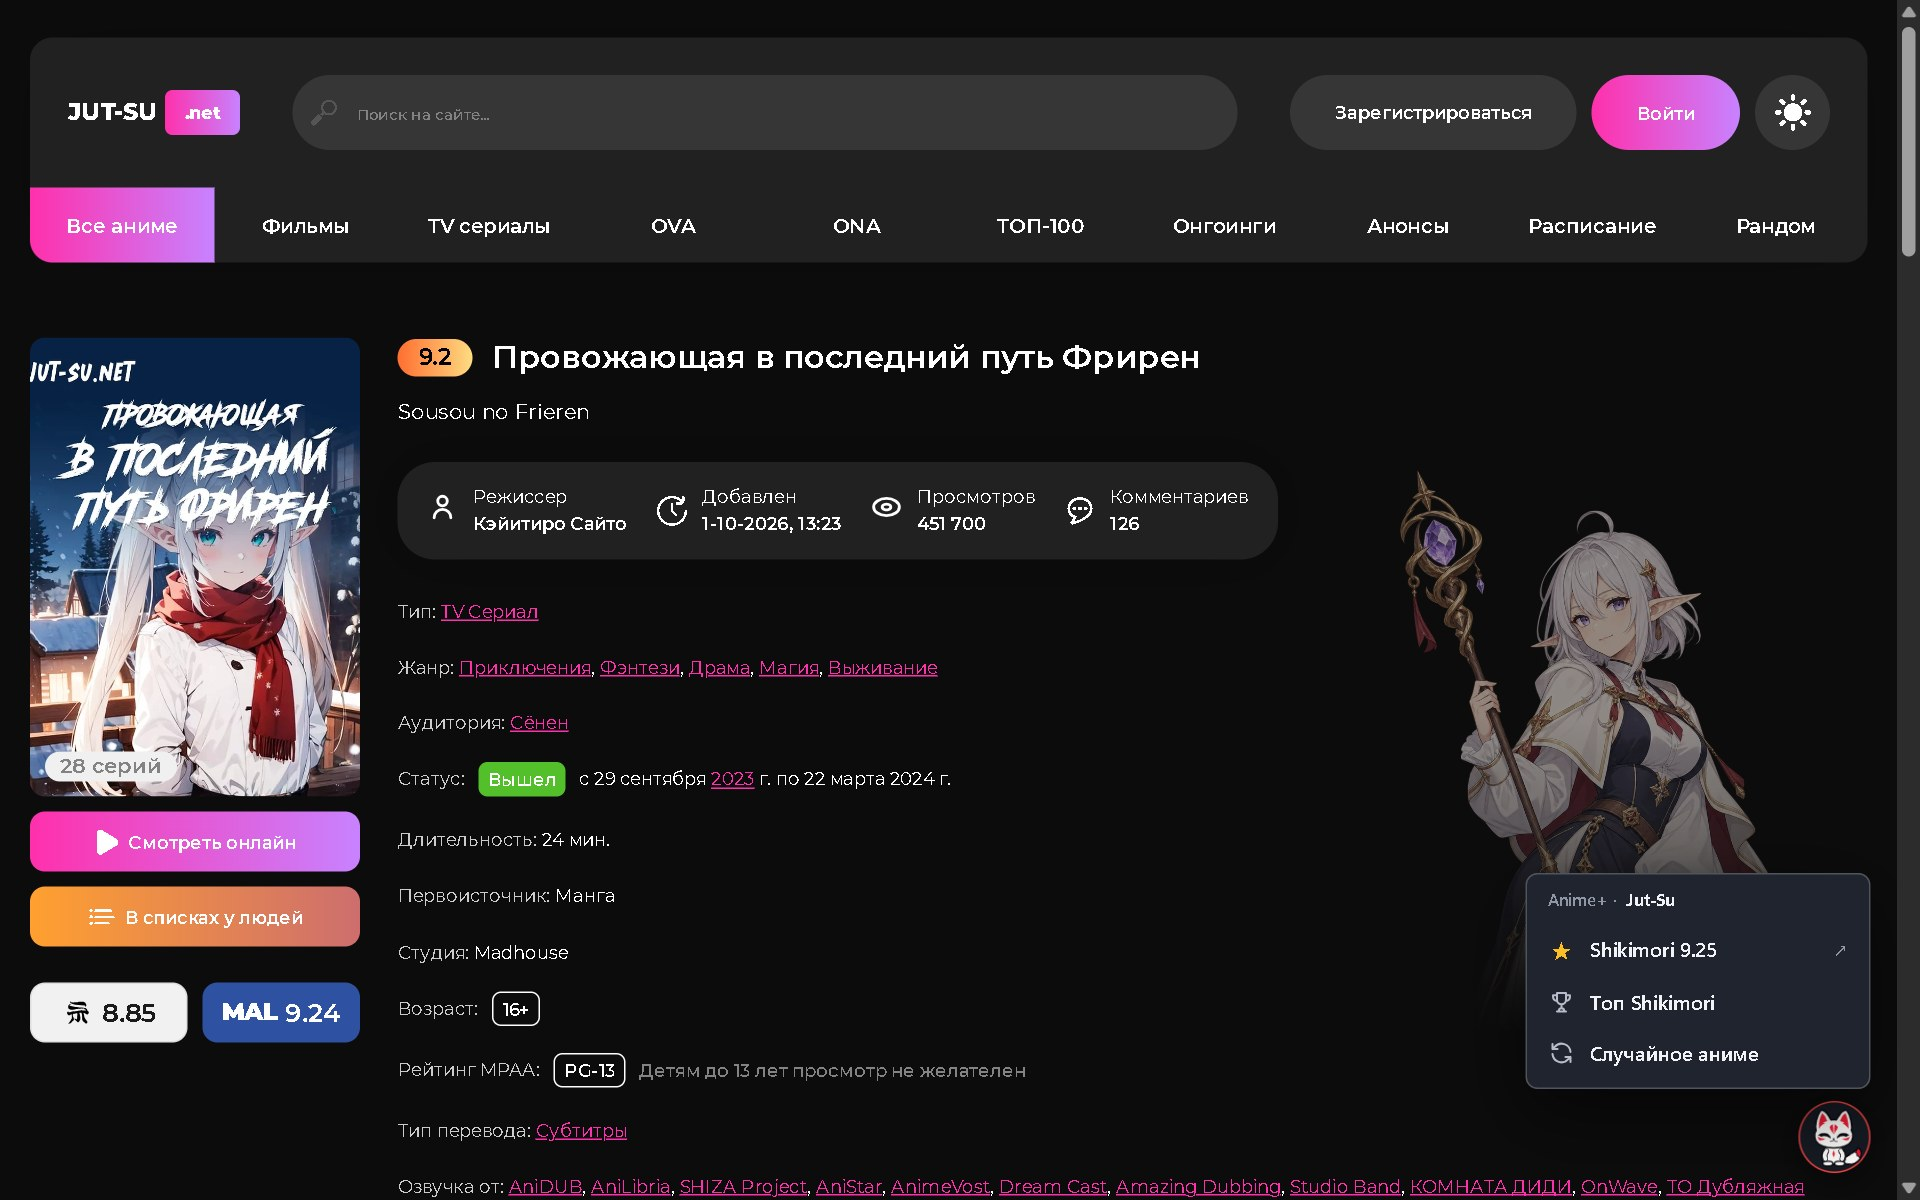
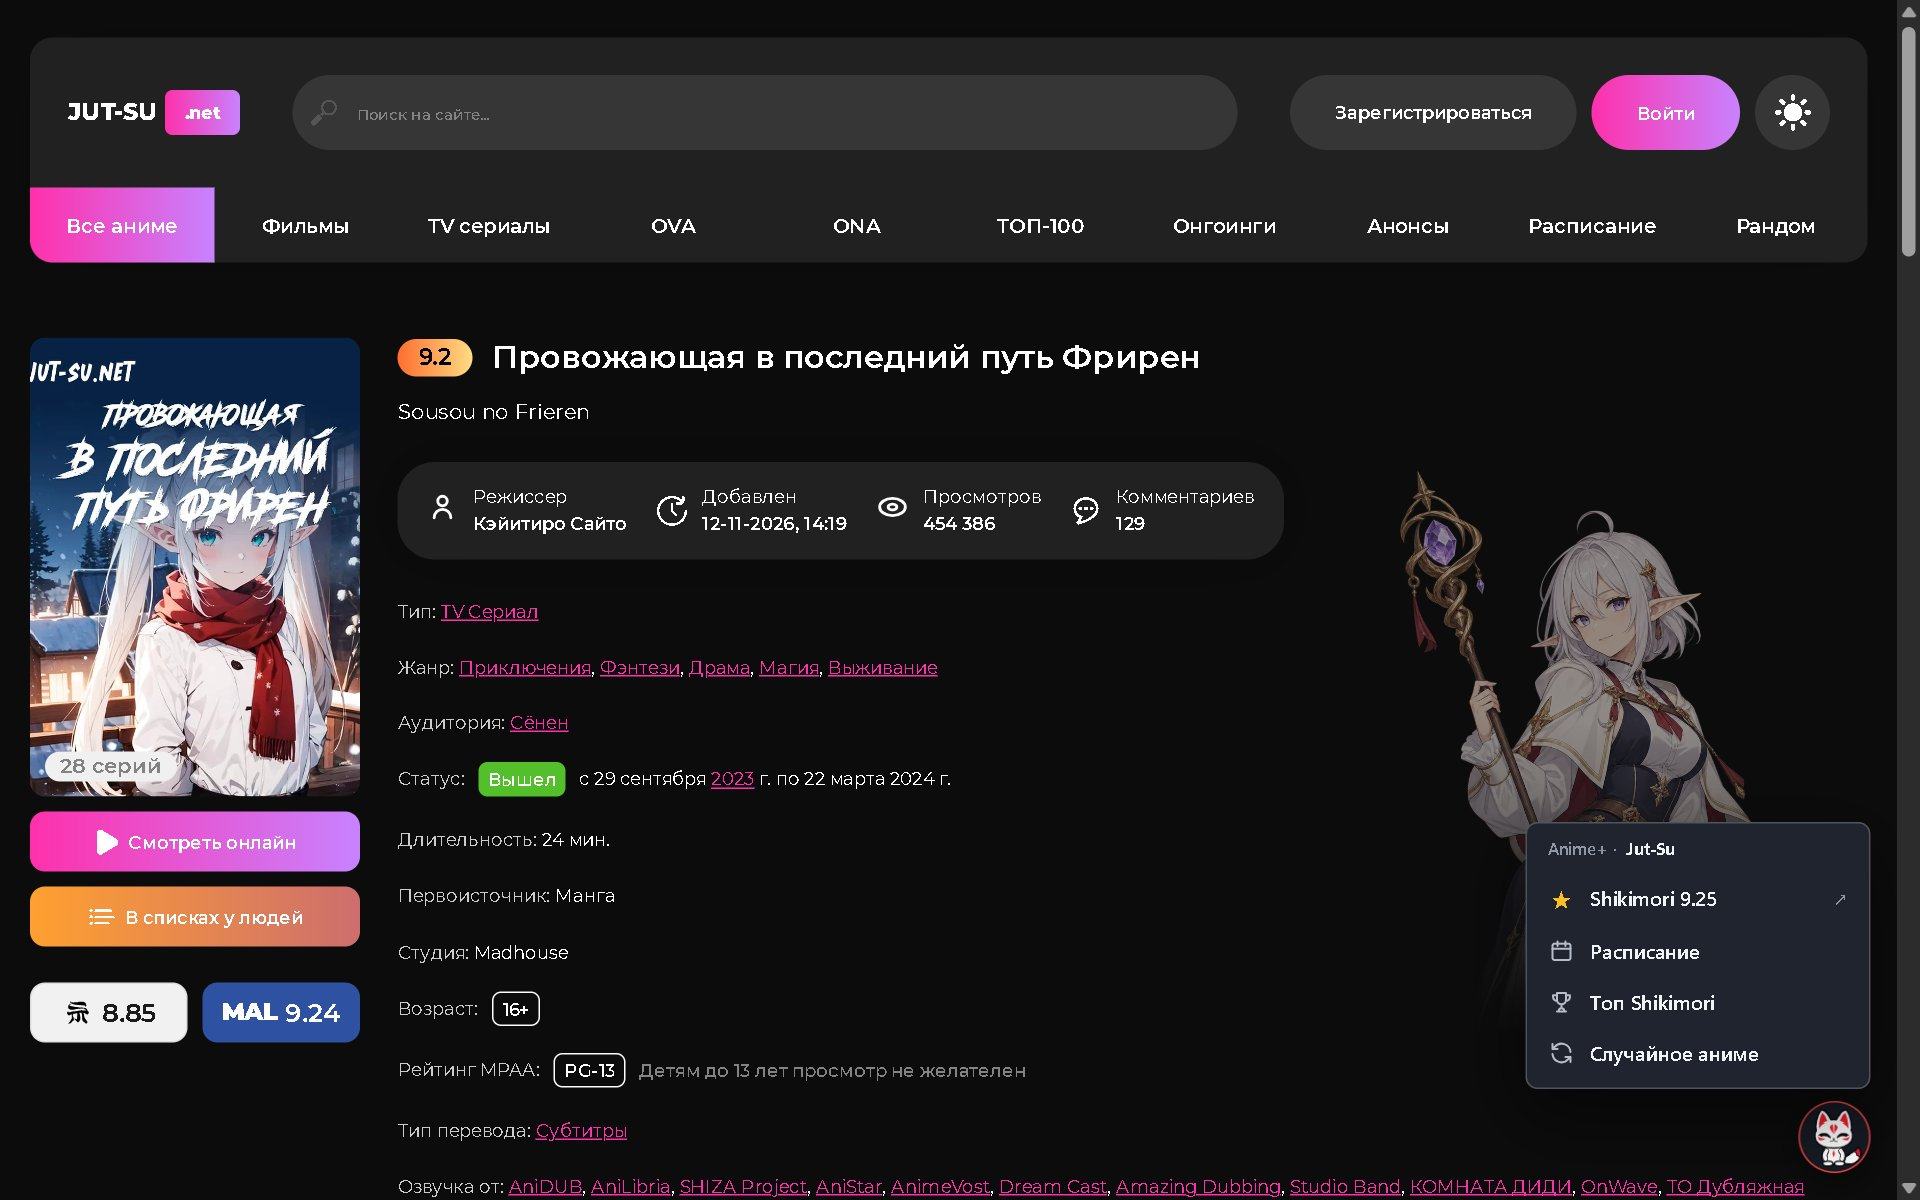
README: снимки расписания, меню лисы и карточки после последней серии

diff --git a/README.md b/README.md
@@ -211,6 +211,10 @@ AnimeVost часто меняет адрес. Все зеркала на vost.pw
 | :---: | :---: |
 | <img src="assets/player_switch_before.jpg" width="450" alt="Серия в плеере Kodik в полном экране" /> | <img src="assets/player_switch_after.jpg" width="450" alt="Та же серия продолжается в плеере CVH" /> |
 
+| После последней серии: продолжение на этом же сайте |
+| :---: |
+| <img src="assets/player_finale.jpg" width="600" alt="Карточка «Тайтл досмотрен» с кнопкой «Смотреть продолжение»" /> |
+
 </details>
 
 <details>
@@ -273,7 +277,21 @@ AnimeVost часто меняет адрес. Все зеркала на vost.pw
 
 | Меню лисы на странице тайтла |
 | :---: |
-| <img src="assets/fox_dock.jpg" width="700" alt="Значок лисы с открытым меню: оценка Shikimori, Топ и случайное аниме" /> |
+| <img src="assets/fox_dock.jpg" width="700" alt="Значок лисы с открытым меню: оценка Shikimori, расписание, Топ и случайное аниме" /> |
+
+</details>
+
+<details>
+<summary><b>📅 Расписание</b></summary>
+<br>
+
+| Поверх сайта из значка лисы | Фильтры |
+| :---: | :---: |
+| <img src="assets/schedule_overlay.jpg" width="450" alt="Расписание недели поверх страницы Jut-Su, вышедшие серии с меткой" /> | <img src="assets/schedule_filters.jpg" width="450" alt="Панель фильтров расписания: китайское, детское, длинные сериалы, оценка, жанры" /> |
+
+| Вкладка из окна расширения с выбором сайта |
+| :---: |
+| <img src="assets/schedule_tab.jpg" width="700" alt="Вкладка расписания: дни недели, сегодняшние серии и время выхода" /> |
 
 </details>
 
